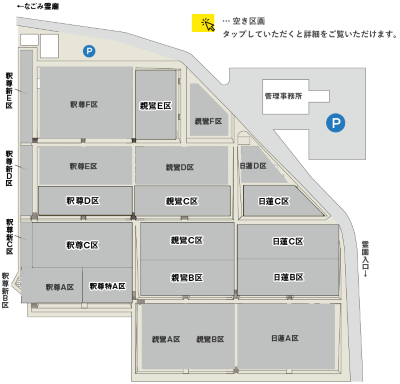
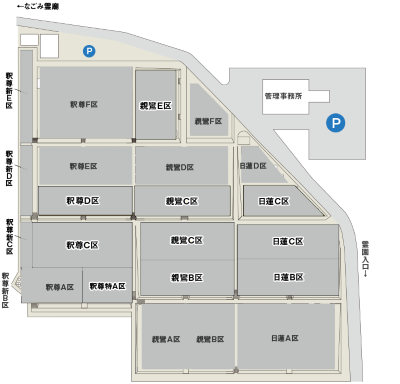
区画・墓所選択画面（修正）

Changed region(s): [[0.48, 0.0312, 0.99, 0.125]]

diff --git a/wwwroot/js/PlotSelection.js b/wwwroot/js/PlotSelection.js
@@ -28,12 +28,12 @@ document.addEventListener('DOMContentLoaded', () => {
             coordDatas = data;
 
             sectionDatas.forEach(function (section) {
-                // 空きあり場合
-                if (section.noReserveCount > 0) {
+                // 空きあり場合（空き以外も初回のみ描画）
+                if (section.noReserveCount >= 0) {
                     const sectionCoords = coordDatas.find(data => data["SectionCode"] == section.sectionCode);
                     sectionCoords.Coordinates.forEach(function (coords) {
                         // 矩形と名前を描画
-                        drawRect(coords);
+                        drawRect(coords, section.noReserveCount);
                         drawName(coords, section.sectionName);
                         ctx.strokeStyle = 'black';
                         ctx.stroke();
@@ -47,7 +47,7 @@ document.addEventListener('DOMContentLoaded', () => {
 });
 
 // 矩形を描画
-function drawRect(coordinates) {
+function drawRect(coordinates, reserve) {
     ctx.beginPath();
     ctx.moveTo(coordinates[0].x, coordinates[0].y);
     for (let i = 1; i < coordinates.length; i++) {
@@ -55,7 +55,7 @@ function drawRect(coordinates) {
     }
 
     ctx.closePath();
-    ctx.fillStyle = '#ffea07';
+    ctx.fillStyle = reserve > 0 ? '#ffea07' : 'white';
     ctx.fill();
     ctx.stroke();
 }
@@ -152,7 +152,7 @@ canvas.addEventListener('mousemove', function (event) {
                 // 矩形と名前を描画
                 const isInside = isInsidePolygon(mouseX, mouseY, coords);
                 ctx.strokeStyle = isInside ? 'red' : 'black';
-                drawRect(coords);
+                drawRect(coords, section.noReserveCount);
                 drawName(coords, section.sectionName);
             });
         }

diff --git a/wwwroot/js/PlotDetails.js b/wwwroot/js/PlotDetails.js
@@ -39,20 +39,27 @@ function drawRect(coordinates) {
 
 
 // マップ初期表示
+var corrRate = 1.0;
 function initMap() {
     map = L.map('map-container', {
         crs: L.CRS.Simple,
         zoomControl: true
     });
 
-    var mapWidth = 517;
-    var mapheight = 759;
+    // (w,h)=(520,700) -> (w,h)=(400,539)
+    var baseWidth = 520;
+    var mapContainer = document.getElementById('map-container');
+    var mapWidth = mapContainer.offsetWidth;
+    var mapHeight = mapContainer.offsetHeight;
+    if (mapWidth <= baseWidth) {
+        corrRate = mapWidth / baseWidth;
+    }
 
-    var bounds = [[0, 0], [mapheight, mapWidth]];
+    var bounds = [[0, 0], [mapHeight, mapWidth]];
     var imagePath = '/images/SEC_' + ReienCode + '_' + AreaCode + '_' + SectionCode + '.png';
     var image = L.imageOverlay(imagePath, bounds).addTo(map);
 
-    var center = [mapheight / 2, mapWidth / 2];
+    var center = [mapHeight / 2, mapWidth / 2];
     var zoomLevel = 0;
     map.setView(center, zoomLevel);
     map.setMaxBounds(bounds);
@@ -73,7 +80,7 @@ function initMap() {
 
     // 矩形を描画
     function createPolygon(cemetery) {
-        const coordinates = cemetery.Coordinates[0].map(coord => [coord.y, coord.x]);
+        const coordinates = cemetery.Coordinates[0].map(coord => [(coord.y * corrRate), (coord.x * corrRate)]);
         var polygon = L.polygon(coordinates, {
             color: 'black',
             fillColor: 'yellow',

diff --git a/wwwroot/css/PlotDetails.css b/wwwroot/css/PlotDetails.css
@@ -35,8 +35,8 @@
 
 #map-container {
     display: inline-block;
-    width: 500px;
-    height: 500px;
+    width: 520px;
+    height: 700px;
     border: 1px solid #ccc;
 }
 .button:hover {
@@ -73,6 +73,7 @@
     margin: 0 10px;
 }
     .image-container img {
+        max-width: 250px;
         display: block;
     }
 
@@ -136,53 +137,20 @@ h1 {
     cursor: pointer;
 }
 
-
-/*
-#map-wrapper {
-    display: flex;
-    justify-content: center;
-    align-items: center;
-    height: 100vh;
-    height: 700px;
-    text-align: center;
-    margin-top: 20px;
-}
-#map-container {
-    height: 70vh;
-    width: 50vw;
-    position: absolute;
-}
-
-@media (max-width: 768px) {
+@media (max-width: 520px) {
     #map-container {
-        width: 70vw;
+        display: inline-block;
+        width: 400px;
+        height: 539px;
+        border: 1px solid #ccc;
+    }
+
+    .image-content {
+        flex-wrap: wrap;
+        justify-content: center;
+        align-items: center;
+    }
+    .image-container img {
+        margin: 5px 10px;
     }
 }
-
-@media (max-width: 480px) {
-    #map-container {
-        width: 90vw;
-    }
-}
-
-body {
-    font-family: Arial, sans-serif;
-}
-
-body {
-    font-family: Arial, sans-serif;
-    margin: 0;
-    padding: 0;
-}
-
-.container {
-    display: flex;
-    flex-direction: column;
-    align-items: center;
-    margin-top: 50px;
-}
-
-.image {
-    margin-top: 20px;
-}
-*/

diff --git a/wwwroot/css/PlotSelection.css b/wwwroot/css/PlotSelection.css
@@ -23,6 +23,13 @@
     margin-bottom: 10px;
 }
 
+#PlotSelectionExplanation {
+    display: flex;
+    justify-content: center;
+    align-items: center;
+    margin-bottom: 10px;
+}
+
 #PlotSelectionContainer {
     display: flex;
     position: relative; /* relativeに設定して子要素のabsolute配置を可能に */
